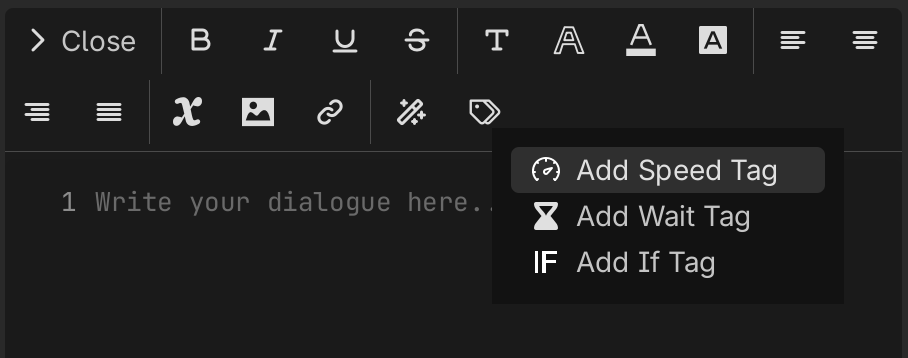
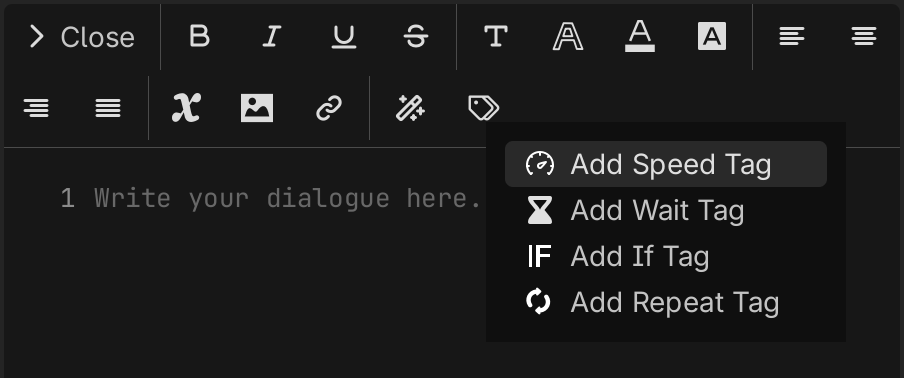
Repeat tag added

diff --git a/docs/class-reference/utils/tags-parsing/tags/repeat-tag-processor.md b/docs/class-reference/utils/tags-parsing/tags/repeat-tag-processor.md
@@ -1,0 +1,71 @@
+---
+sidebar_position: 4
+---
+
+# SproutyDialogsRepeatTagProcessor
+
+**Inherits**: [SproutyDialogsTagProcessor](../tag-processor.md)
+
+## Description
+
+Defines how to process a repeat tag in dialogues. This processor duplicates the content inside the block tag a specified number of times.
+
+The processor allows you to repeat dialogue text or other content without manually copying it multiple times. There is a safety limit (`MAX_TIMES = 10000`) to prevent system freezing from excessively high repeat values.
+
+## Attributes
+
+| Attribute | Description                                         |
+| --------- | --------------------------------------------------- |
+| `value`   | The number of times to repeat the content (integer) |
+
+## Example
+
+```
+[repeat=3]Ha[/repeat]
+```
+
+This would produce: `HaHaHa`
+
+## Constants
+
+| Type  | Name      | Value |
+| ----- | --------- | ----- |
+| `int` | MAX_TIMES | 10000 |
+
+The maximum number of times content can be repeated. If a higher value is specified, it will be capped at this limit and a warning will be issued.
+
+## Methods
+
+| Return Type                                                                                                 | Method                                                                                                                                                |
+| ----------------------------------------------------------------------------------------------------------- | ----------------------------------------------------------------------------------------------------------------------------------------------------- |
+| [String](https://docs.godotengine.org/en/stable/classes/class_string.html)                                  | [get_tag_name](#get-tag-name-method)()                                                                                                                |
+| [bool](https://docs.godotengine.org/en/stable/classes/class_bool.html)                                      | [is_block](#is-block-method)()                                                                                                                        |
+| [Array](https://docs.godotengine.org/en/stable/classes/class_array.html)[[ASTNode](../tags-parser#astnode)] | [transform](#transform-method)(node: [ASTNode](../tags-parser#astnode), variable_manager: [SproutyDialogsVariableManager](../../variable-manager.md)) |
+
+## Method Descriptions
+
+<h3 id="get-tag-name-method">
+  <span class="reference-type">func </span><code>get_tag_name</code><span class="parameters">()</span><span class="return-type"> -> <a target="_blank" href="https://docs.godotengine.org/en/stable/classes/class_string.html">String</a></span>
+</h3>
+<p>Returns <code>"repeat"</code>, the tag name this processor handles.</p>
+<hr/>
+
+<h3 id="is-block-method">
+  <span class="reference-type">func </span><code>is_block</code><span class="parameters">()</span><span class="return-type"> -> <a target="_blank" href="https://docs.godotengine.org/en/stable/classes/class_bool.html">bool</a></span>
+</h3>
+<p>Returns <code>true</code>. The repeat tag is a block tag with opening and closing tags.</p>
+<hr/>
+
+<h3 id="transform-method">
+  <span class="reference-type">func </span><code>transform</code><span class="parameters">(node: <a href="../tags-parser#astnode">ASTNode</a>, variable_manager: <a href="../../variable-manager">SproutyDialogsVariableManager</a>)</span><span class="return-type"> -> <a target="_blank" href="https://docs.godotengine.org/en/stable/classes/class_array.html">Array</a>[<a href="../tags-parser#astnode">ASTNode</a>]</span>
+</h3>
+<p>Transforms the repeat tag by duplicating its content the specified number of times. The processor:</p>
+<ul>
+<li>Retrieves the repeat count from the <code>"value"</code> attribute</li>
+<li>Caps the count at <code>MAX_TIMES</code> (10000) if a higher value is provided, issuing a warning to prevent system freezing</li>
+<li>Duplicates each child node for the specified number of iterations</li>
+<li>Updates the parent reference for duplicated nodes to maintain the AST structure</li>
+<li>Returns an array containing all duplicated nodes</li>
+</ul>
+<p>The original tag node is freed after transformation. If the repeat count is 0 or invalid, an empty array is returned.</p>
+<hr/>

diff --git a/versioned_docs/version-1.2.0/class-reference/utils/tags-parsing/tags/repeat-tag-processor.md b/versioned_docs/version-1.2.0/class-reference/utils/tags-parsing/tags/repeat-tag-processor.md
@@ -1,0 +1,71 @@
+---
+sidebar_position: 4
+---
+
+# SproutyDialogsRepeatTagProcessor
+
+**Inherits**: [SproutyDialogsTagProcessor](../tag-processor.md)
+
+## Description
+
+Defines how to process a repeat tag in dialogues. This processor duplicates the content inside the block tag a specified number of times.
+
+The processor allows you to repeat dialogue text or other content without manually copying it multiple times. There is a safety limit (`MAX_TIMES = 10000`) to prevent system freezing from excessively high repeat values.
+
+## Attributes
+
+| Attribute | Description                                         |
+| --------- | --------------------------------------------------- |
+| `value`   | The number of times to repeat the content (integer) |
+
+## Example
+
+```
+[repeat=3]Ha[/repeat]
+```
+
+This would produce: `HaHaHa`
+
+## Constants
+
+| Type  | Name      | Value |
+| ----- | --------- | ----- |
+| `int` | MAX_TIMES | 10000 |
+
+The maximum number of times content can be repeated. If a higher value is specified, it will be capped at this limit and a warning will be issued.
+
+## Methods
+
+| Return Type                                                                                                 | Method                                                                                                                                                |
+| ----------------------------------------------------------------------------------------------------------- | ----------------------------------------------------------------------------------------------------------------------------------------------------- |
+| [String](https://docs.godotengine.org/en/stable/classes/class_string.html)                                  | [get_tag_name](#get-tag-name-method)()                                                                                                                |
+| [bool](https://docs.godotengine.org/en/stable/classes/class_bool.html)                                      | [is_block](#is-block-method)()                                                                                                                        |
+| [Array](https://docs.godotengine.org/en/stable/classes/class_array.html)[[ASTNode](../tags-parser#astnode)] | [transform](#transform-method)(node: [ASTNode](../tags-parser#astnode), variable_manager: [SproutyDialogsVariableManager](../../variable-manager.md)) |
+
+## Method Descriptions
+
+<h3 id="get-tag-name-method">
+  <span class="reference-type">func </span><code>get_tag_name</code><span class="parameters">()</span><span class="return-type"> -> <a target="_blank" href="https://docs.godotengine.org/en/stable/classes/class_string.html">String</a></span>
+</h3>
+<p>Returns <code>"repeat"</code>, the tag name this processor handles.</p>
+<hr/>
+
+<h3 id="is-block-method">
+  <span class="reference-type">func </span><code>is_block</code><span class="parameters">()</span><span class="return-type"> -> <a target="_blank" href="https://docs.godotengine.org/en/stable/classes/class_bool.html">bool</a></span>
+</h3>
+<p>Returns <code>true</code>. The repeat tag is a block tag with opening and closing tags.</p>
+<hr/>
+
+<h3 id="transform-method">
+  <span class="reference-type">func </span><code>transform</code><span class="parameters">(node: <a href="../tags-parser#astnode">ASTNode</a>, variable_manager: <a href="../../variable-manager">SproutyDialogsVariableManager</a>)</span><span class="return-type"> -> <a target="_blank" href="https://docs.godotengine.org/en/stable/classes/class_array.html">Array</a>[<a href="../tags-parser#astnode">ASTNode</a>]</span>
+</h3>
+<p>Transforms the repeat tag by duplicating its content the specified number of times. The processor:</p>
+<ul>
+<li>Retrieves the repeat count from the <code>"value"</code> attribute</li>
+<li>Caps the count at <code>MAX_TIMES</code> (10000) if a higher value is provided, issuing a warning to prevent system freezing</li>
+<li>Duplicates each child node for the specified number of iterations</li>
+<li>Updates the parent reference for duplicated nodes to maintain the AST structure</li>
+<li>Returns an array containing all duplicated nodes</li>
+</ul>
+<p>The original tag node is freed after transformation. If the repeat count is 0 or invalid, an empty array is returned.</p>
+<hr/>

diff --git a/docs/dialogues/text-editor.md b/docs/dialogues/text-editor.md
@@ -311,3 +311,29 @@ You can access them through the **Special Tags** menu in the toolbar.
   > ```
   > [if var="score" op="gt" val="10"]You win![/if]
   > ```
+
+- **Content Repetition** `[repeat]`: A block tag that repeats the enclosed content a specified number of times. The content is displayed consecutively that many times.
+
+  > - You need to specify a positive integer indicating how many times the content should be repeated.
+  >   > - _For performance reasons, the **maximum number of repetitions** allowed is 10,000._
+  >   > - _If the number of repetitions is 0, the **content is removed**._
+  >   >
+  >   > ```
+  >   > [repeat=0]This will be removed[/repeat] → (nothing)
+  >   > ```
+  > - **Variables are also supported** (e.g., `[repeat={count}]...[/repeat]`). _Variable substitution is performed before repetition._
+  >   > ```
+  >   > [repeat={player_echo}]Echo![/repeat]
+  >   > ```
+  > - **Nesting is supported**. _Nested `[repeat]` tags are processed recursively:_
+  >   > ```
+  >   > [repeat=3]A[repeat=3]B[/repeat]C[/repeat] → ABBBCABBBCABBBC
+  >   > ```
+  >   >
+  >   > _(Inner `[repeat=3]B[/repeat]` becomes BBB, then outer repeats A + BBB + C three times.)_
+
+  > **Example**:
+  >
+  > ```
+  > [repeat=3]Ha! [/repeat] → Ha! Ha! Ha!
+  > ```

diff --git a/versioned_docs/version-1.2.0/dialogues/text-editor.md b/versioned_docs/version-1.2.0/dialogues/text-editor.md
@@ -311,3 +311,29 @@ You can access them through the **Special Tags** menu in the toolbar.
   > ```
   > [if var="score" op="gt" val="10"]You win![/if]
   > ```
+
+- **Content Repetition** `[repeat]`: A block tag that repeats the enclosed content a specified number of times. The content is displayed consecutively that many times.
+
+  > - You need to specify a positive integer indicating how many times the content should be repeated.
+  >   > - _For performance reasons, the **maximum number of repetitions** allowed is 10,000._
+  >   > - _If the number of repetitions is 0, the **content is removed**._
+  >   >
+  >   > ```
+  >   > [repeat=0]This will be removed[/repeat] → (nothing)
+  >   > ```
+  > - **Variables are also supported** (e.g., `[repeat={count}]...[/repeat]`). _Variable substitution is performed before repetition._
+  >   > ```
+  >   > [repeat={player_echo}]Echo![/repeat]
+  >   > ```
+  > - **Nesting is supported**. _Nested `[repeat]` tags are processed recursively:_
+  >   > ```
+  >   > [repeat=3]A[repeat=3]B[/repeat]C[/repeat] → ABBBCABBBCABBBC
+  >   > ```
+  >   >
+  >   > _(Inner `[repeat=3]B[/repeat]` becomes BBB, then outer repeats A + BBB + C three times.)_
+
+  > **Example**:
+  >
+  > ```
+  > [repeat=3]Ha! [/repeat] → Ha! Ha! Ha!
+  > ```
